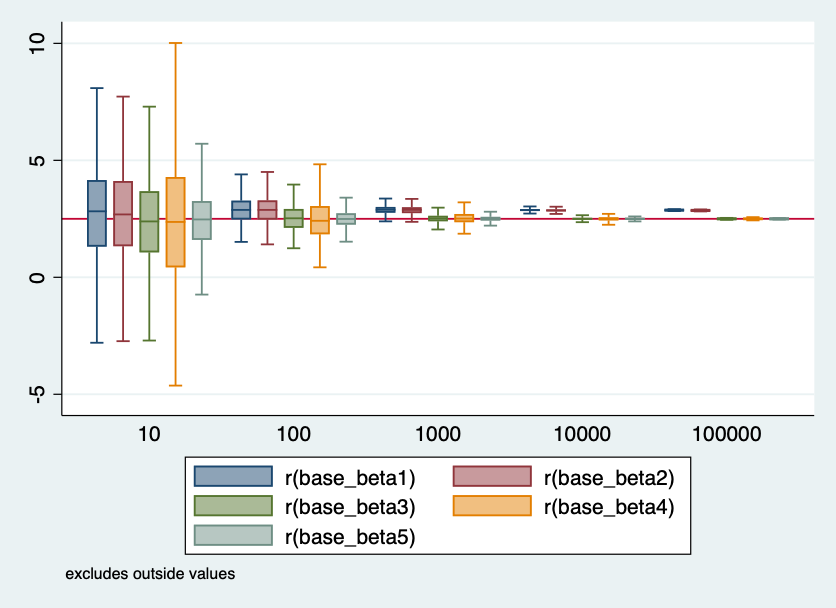
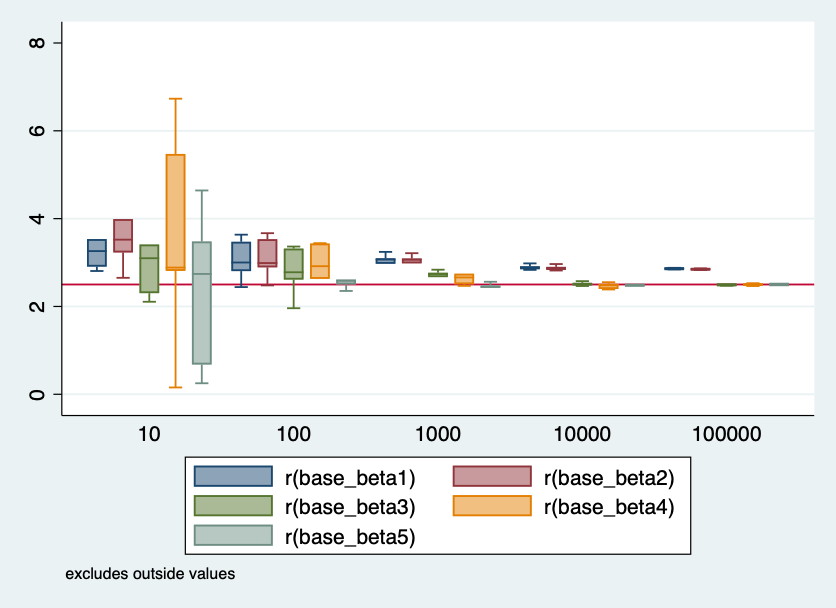
week09-part2-update

diff --git a/Individual Assignments/Hippolyte BeverlyAnn/week09/READMe.md b/Individual Assignments/Hippolyte BeverlyAnn/week09/READMe.md
@@ -1,0 +1,14 @@
+Week 9 - Part 1
+
+![confounder](confounder.png)
+
+In these five models we are trying to limit bias by controlling for the treatment variable and including a confounder in the third model to observe its impact on the results of the regression model. WE've built the model in each regression including fixed effects and covariates as we run a new model.
+
+The debias is apparent in the third model. When we include the confounder variable in the model, we observe the true treatment effect of 2.5. The confounder affects both the outcome and the treatment variable, by not including it in the model we are biasing the parameter and not observing the true treatment effect.
+
+Part II
+
+![figure1_50simulations](bias_50.png)
+![figure2_500simulations](bias_500.png)
+
+In part two of the model we observe what happens to our estimates when we include a collider variable and a channel. In the first two models the predicted treatment effect is very close to the true estimate. In the fourth regression, the estimate on the collider variable is very far from the true estimate which indicates that the collider variable is creating bias. 
